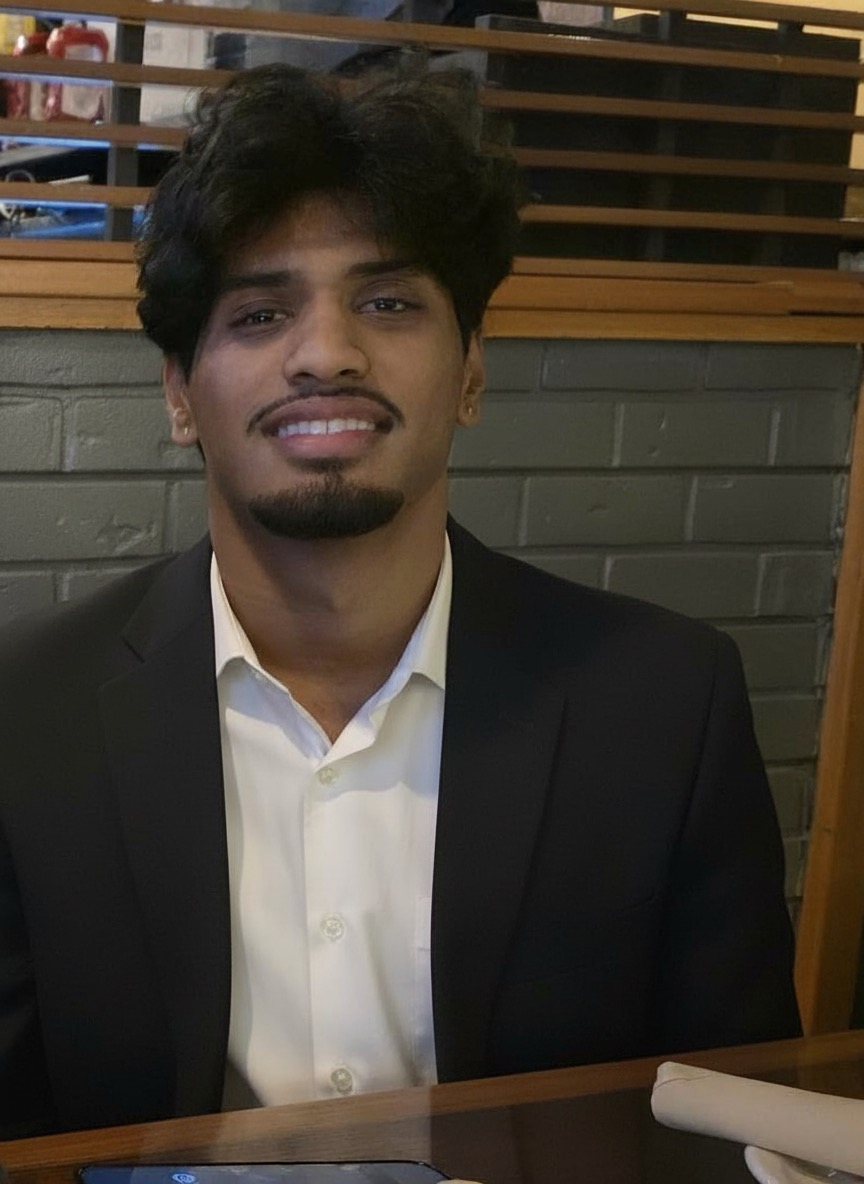
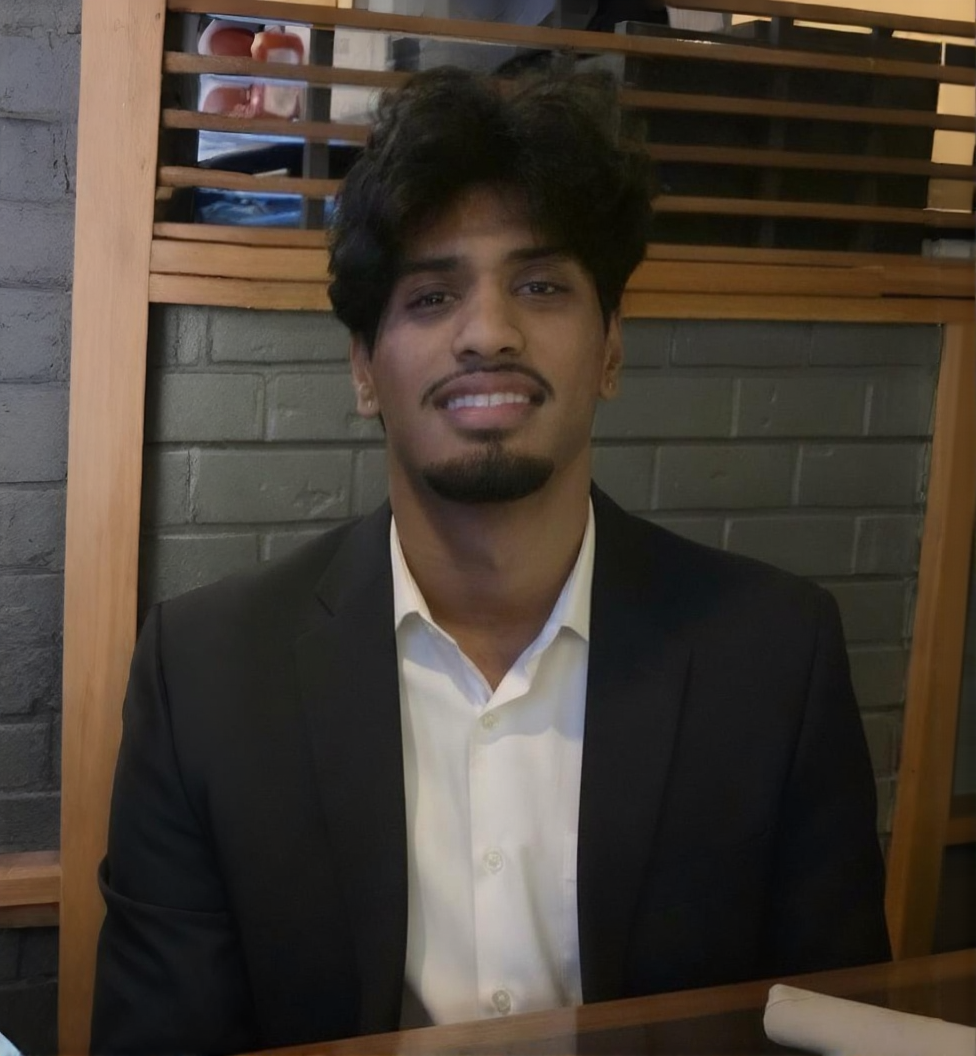
fixed section

diff --git a/src/components/Hero.tsx b/src/components/Hero.tsx
@@ -9,7 +9,7 @@ export const Hero = ({ name, title, description, imageUrl }: HeroProps) => {
   return (
     <section className="mb-8 animate-fade-in">
       <div className="flex items-start gap-8 mb-8">
-        <div className="relative group mt-4 ml-4">
+        <div className="relative group">
           <img
             src={imageUrl}
             alt={name}
